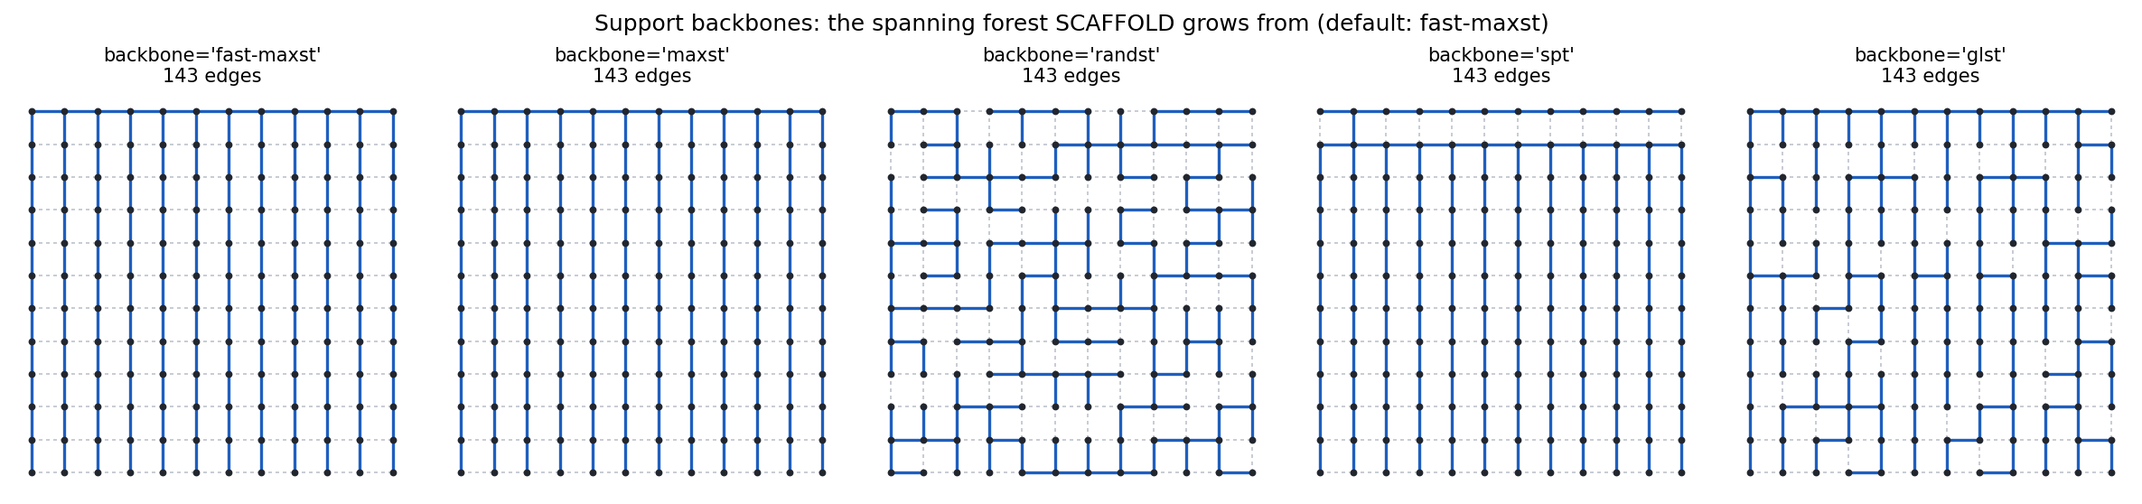
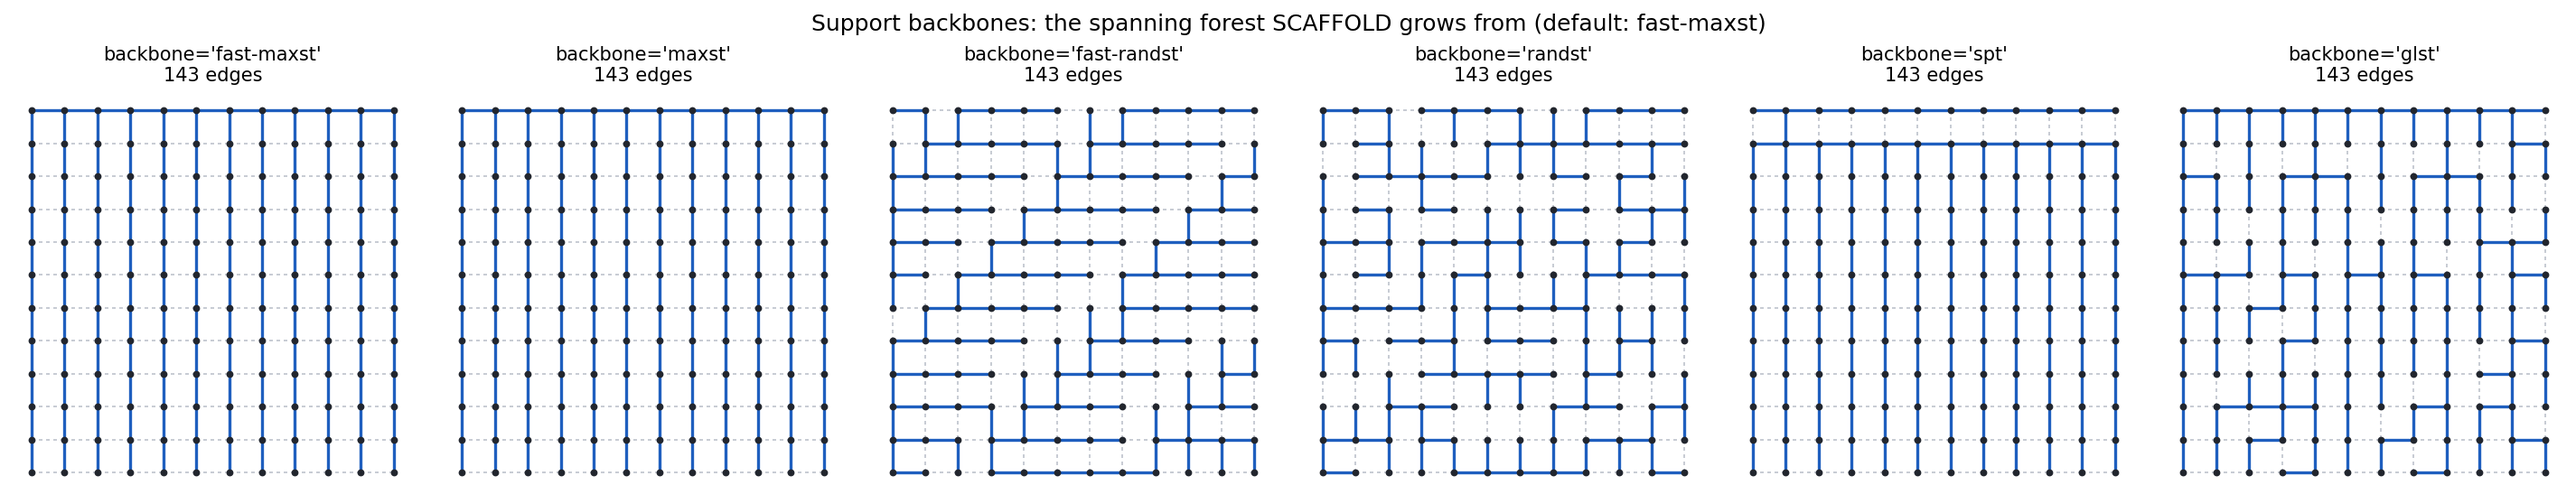
Add fast randomized support backbone

diff --git a/src/scaffold/backbone.py b/src/scaffold/backbone.py
@@ -16,13 +16,14 @@ Available backbones
                 comparison sort. On an unweighted graph it degenerates to the
                 fastest deterministic forest scan available.
 ``fast-mst``    Same, minimizing.
+``fast-randst`` Seeded coprime-stride randomized Kruskal. Visits every edge
+                exactly once without allocating a random permutation. Faster
+                and lower-memory than ``randst``, with less random mixing.
 ``maxst``       Exact maximum spanning forest (stable Kruskal, ``O(m log m)``).
 ``mst``         Exact minimum spanning forest.
-``randst``      Kruskal on a uniform random edge permutation. Structurally
-                similar to a uniform random spanning tree but orders of
-                magnitude cheaper than Wilson's algorithm. Re-drawn per call,
-                which is what makes per-epoch resparsification produce
-                genuinely different views.
+``randst``      Kruskal on a uniform random edge permutation. Better-randomized
+                edge order than ``fast-randst``, at the cost of materializing
+                that full permutation. Re-drawn per call.
 ``spt``         Multi-source shortest-path (BFS) forest from the highest-degree
                 node of each component. Low diameter, useful when you care more
                 about hop distance than about edge weight.
@@ -38,12 +39,18 @@ directly as a boolean mask / edge-id array.
 
 from __future__ import annotations
 
+import math
 from typing import Callable, Dict, Optional
 
 import numpy as np
 
 from .graph import Graph
-from .kernels import build_csr, counting_order, spanning_forest_mask
+from .kernels import (
+    build_csr,
+    counting_order,
+    spanning_forest_mask,
+    strided_spanning_forest_mask,
+)
 
 __all__ = [
     "DEFAULT_BACKBONE",
@@ -67,8 +74,8 @@ _ALIASES = {
     "max_st": "maxst",
     "min_st": "mst",
     "rand_st": "randst",
-    "fast_randst": "randst",
-    "fast-randst": "randst",
+    "fast_randst": "fast-randst",
+    "fastrandst": "fast-randst",
     "random": "randst",
     "bfs": "spt",
     "shortest_path": "spt",
@@ -233,6 +240,41 @@ def _random_forest(graph: Graph, max_edges, seed) -> np.ndarray:
     )
 
 
+def _fast_random_forest(graph: Graph, max_edges, seed) -> np.ndarray:
+    """Seeded strided random forest without allocating a full permutation."""
+    limit = _limit(graph, max_edges)
+    m = graph.num_edges
+    if m == 0 or limit == 0:
+        return np.zeros(m, dtype=bool)
+    if m == 1:
+        return spanning_forest_mask(
+            graph.num_nodes,
+            graph.src,
+            graph.dst,
+            np.zeros(1, dtype=np.int64),
+            max_edges=limit,
+        )
+
+    rng = np.random.default_rng(seed)
+    offset = int(rng.integers(0, m))
+    stride = int(rng.integers(1, m))
+    if stride % 2 == 0:
+        stride += 1
+    while math.gcd(stride, m) != 1:
+        stride += 2
+        if stride >= m:
+            stride = 1
+            break
+    return strided_spanning_forest_mask(
+        graph.num_nodes,
+        graph.src,
+        graph.dst,
+        offset,
+        stride,
+        max_edges=limit,
+    )
+
+
 def _shortest_path_forest(graph: Graph, max_edges, seed) -> np.ndarray:
     """BFS forest rooted at the highest-degree node of each component."""
     limit = _limit(graph, max_edges)
@@ -389,6 +431,12 @@ register_backbone(
 register_backbone(
     "randst",
     lambda graph, max_edges=None, seed=None, **_: _random_forest(graph, max_edges, seed),
+)
+register_backbone(
+    "fast-randst",
+    lambda graph, max_edges=None, seed=None, **_: (
+        _fast_random_forest(graph, max_edges, seed)
+    ),
 )
 register_backbone(
     "spt",

diff --git a/src/scaffold/kernels.py b/src/scaffold/kernels.py
@@ -86,6 +86,40 @@ def _forest_mask_kernel(num_nodes, src, dst, visit, max_edges):
 
 
 @jit
+def _strided_forest_mask_kernel(
+    num_nodes, src, dst, offset, stride, max_edges
+):
+    """Kruskal over a cyclic arithmetic permutation without materializing it."""
+    parent = np.arange(num_nodes)
+    rank = np.zeros(num_nodes, dtype=np.int8)
+    mask = np.zeros(src.shape[0], dtype=np.bool_)
+    added = 0
+    m = src.shape[0]
+    for step in range(m):
+        if added >= max_edges:
+            break
+        i = (offset + step * stride) % m
+        u = src[i]
+        v = dst[i]
+        if u == v:
+            continue
+        ru = _dsu_find(parent, u)
+        rv = _dsu_find(parent, v)
+        if ru == rv:
+            continue
+        if rank[ru] < rank[rv]:
+            parent[ru] = rv
+        elif rank[ru] > rank[rv]:
+            parent[rv] = ru
+        else:
+            parent[rv] = ru
+            rank[ru] += 1
+        mask[i] = True
+        added += 1
+    return mask
+
+
+@jit
 def _component_count_kernel(num_nodes, src, dst):
     parent = np.arange(num_nodes)
     components = num_nodes
@@ -376,6 +410,36 @@ def spanning_forest_mask(num_nodes, src, dst, visit_order, max_edges=None):
     if limit == 0:
         return np.zeros(src.shape[0], dtype=bool)
     return np.asarray(_forest_mask_kernel(num_nodes, src, dst, visit_order, limit))
+
+
+def strided_spanning_forest_mask(
+    num_nodes, src, dst, offset, stride, max_edges=None
+):
+    """Forest from a coprime strided edge scan, without an ``O(m)`` order array.
+
+    When ``gcd(stride, m) == 1``, ``(offset + step * stride) % m`` visits every
+    edge exactly once. This is the allocation-free traversal used by the
+    ``fast-randst`` backbone.
+    """
+    num_nodes = int(num_nodes)
+    src = np.ascontiguousarray(src, dtype=np.int64)
+    dst = np.ascontiguousarray(dst, dtype=np.int64)
+    m = int(src.shape[0])
+    if m == 0:
+        return np.zeros(0, dtype=bool)
+    offset = int(offset) % m
+    stride = int(stride) % m
+    if stride == 0 or math.gcd(stride, m) != 1:
+        raise ValueError(f"stride must be coprime with the edge count ({m})")
+    limit = num_nodes if max_edges is None else int(max_edges)
+    limit = max(0, min(limit, num_nodes))
+    if limit == 0:
+        return np.zeros(m, dtype=bool)
+    return np.asarray(
+        _strided_forest_mask_kernel(
+            num_nodes, src, dst, offset, stride, limit
+        )
+    )
 
 
 def component_count(num_nodes, src, dst):

diff --git a/tests/test_algorithms.py b/tests/test_algorithms.py
@@ -17,7 +17,11 @@ import pytest
 
 import scaffold
 from conftest import ALL_METHODS, GREEDY_METHODS, sparsify_any
-from scaffold.backbone import build_backbone
+from scaffold.backbone import (
+    DEFAULT_BACKBONE,
+    build_backbone,
+    canonical_backbone_name,
+)
 
 
 # ----------------------------------------------------------------------
@@ -248,10 +252,50 @@ def test_random_backbone_responds_to_the_seed(grid):
     assert not np.array_equal(first.mask, second.mask)
 
 
+def test_fast_randst_is_registered_with_research_alias(grid):
+    assert DEFAULT_BACKBONE == "fast-maxst"
+    assert "fast-randst" in scaffold.available_backbones()
+    assert canonical_backbone_name("fast_randst") == "fast-randst"
+    by_hyphen = build_backbone(grid, "fast-randst", seed=3)
+    by_underscore = build_backbone(grid, "fast_randst", seed=3)
+    np.testing.assert_array_equal(by_hyphen, by_underscore)
+
+
+def test_fast_randst_is_a_seeded_spanning_forest(grid):
+    first = build_backbone(grid, "fast-randst", seed=1)
+    repeated = build_backbone(grid, "fast-randst", seed=1)
+    second = build_backbone(grid, "fast-randst", seed=2)
+
+    assert int(first.sum()) == grid.num_nodes - 1
+    np.testing.assert_array_equal(first, repeated)
+    assert not np.array_equal(first, second)
+
+
+def test_fast_randst_is_distinct_from_randst(grid):
+    fast_random = build_backbone(grid, "fast-randst", seed=7)
+    full_random = build_backbone(grid, "randst", seed=7)
+    assert not np.array_equal(fast_random, full_random)
+
+
+def test_fast_randst_honors_partial_forest_budget(grid):
+    mask = build_backbone(grid, "fast-randst", seed=7, max_edges=20)
+    assert int(mask.sum()) == 20
+
+
+@pytest.mark.parametrize("method", GREEDY_METHODS)
+def test_fast_randst_integrates_with_greedy_methods(grid, method):
+    result = scaffold.sparsify(
+        grid, method=method, keep_ratio=0.7, backbone="fast-randst", seed=7
+    )
+    assert result.num_components() == 1
+    assert result.metadata["backbone"] == "fast-randst"
+
+
 def test_global_numpy_rng_is_not_touched(grid):
     np.random.seed(1234)
     before = np.random.get_state()[1][:8].copy()
     scaffold.fast(grid, keep_ratio=0.7, backbone="randst", seed=7)
+    scaffold.fast(grid, keep_ratio=0.7, backbone="fast-randst", seed=7)
     scaffold.sample(grid, seed=7).draw(keep_ratio=0.7)
     np.testing.assert_array_equal(before, np.random.get_state()[1][:8])
 

diff --git a/examples/04_backbones_and_tuning.py b/examples/04_backbones_and_tuning.py
@@ -36,7 +36,9 @@ section("1. The available backbones")
 print(f"  {scaffold.available_backbones()}\n")
 print(f"  {'backbone':12s} {'forest':>7s} {'stretch':>10s} {'edges':>7s} {'comp':>5s}")
 print(f"  {'-' * 12} {'-' * 7} {'-' * 10} {'-' * 7} {'-' * 5}")
-for name in ("fast-maxst", "maxst", "mst", "randst", "spt", "glst"):
+for name in (
+    "fast-maxst", "maxst", "mst", "fast-randst", "randst", "spt", "glst"
+):
     mask = build_backbone(G, name, seed=0)
     # total_stretch: sum over non-tree edges of dist_T(u,v)/w(e). Lower is a
     # better starting point -- fewer long detours for the growth phase to fix.
@@ -49,6 +51,8 @@ for name in ("fast-maxst", "maxst", "mst", "randst", "spt", "glst"):
 print("\n  On an *unweighted* grid, fast-maxst and maxst coincide: with no weights")
 print("  to sort by, both fall back to the same deterministic scan. Give the grid")
 print("  weights and they diverge.")
+print("  fast-randst avoids constructing randst's full random permutation; it is")
+print("  normally faster, while randst provides a more thoroughly shuffled order.")
 
 
 # ----------------------------------------------------------------------

diff --git a/examples/01_grid_demo.py b/examples/01_grid_demo.py
@@ -38,7 +38,7 @@ def figure_backbones(graph, positions, out_dir):
     """Every SCAFFOLD run starts from a spanning forest. They differ a lot."""
     import matplotlib.pyplot as plt
 
-    names = ["fast-maxst", "maxst", "randst", "spt", "glst"]
+    names = ["fast-maxst", "maxst", "fast-randst", "randst", "spt", "glst"]
     fig, axes = plt.subplots(1, len(names), figsize=(3.2 * len(names), 3.6))
     for ax, name in zip(np.atleast_1d(axes), names):
         mask = build_backbone(graph, name, seed=SEED)

diff --git a/tests/test_scoring.py b/tests/test_scoring.py
@@ -16,7 +16,7 @@ import scaffold
 from scaffold.backbone import build_backbone
 from scaffold.scoring import ScoreParams, path_scores, tree_scores
 
-BACKBONES = ["fast-maxst", "maxst", "mst", "randst", "spt"]
+BACKBONES = ["fast-maxst", "maxst", "mst", "fast-randst", "randst", "spt"]
 PARAM_SETS = [
     ScoreParams(),
     ScoreParams(alpha=1.0, beta_edge=0.0, beta_node=0.0),

diff --git a/docs/backbones.md b/docs/backbones.md
@@ -45,18 +45,36 @@ Exact stable Kruskal, `O(m log m)`. Ties break on edge id, so runs are
 reproducible. Use these when the weight ordering genuinely matters and you can
 afford the sort.
 
-### `randst`
+### `fast-randst` and `randst`
 
-Kruskal on a uniform random edge permutation. Structurally similar to a uniform
-random spanning tree, orders of magnitude cheaper than Wilson's algorithm.
+Both are randomized Kruskal forests and are redrawn on every call:
 
-**Re-drawn on every call**, which is what makes per-epoch resparsification
-produce genuinely different views rather than the same graph with different
-decorations.
+- `fast-randst` draws only a seeded offset and coprime stride. The resulting
+  arithmetic traversal visits every edge once without allocating an `m`-entry
+  permutation. It is the faster, lower-memory choice and matches the research
+  tensor backend's fast randomized support.
+- `randst` constructs a full uniform random edge permutation before the same
+  union-find scan. Its edge order is more thoroughly randomized, but creating
+  and storing the permutation costs additional time and `O(m)` memory.
+
+Neither is an exact uniform spanning-tree sampler. The distinction is the
+randomness and cost of the *edge order*, not the union-find acceptance rule.
+
+Warmed median construction times with numba on the development machine were:
+
+| undirected edges | `fast-randst` | `randst` | speedup |
+|---:|---:|---:|---:|
+| 130,560 | 2.4 ms | 4.5 ms | 1.9× |
+| 523,264 | 9.9 ms | 22.6 ms | 2.3× |
+| 2,095,104 | 134.3 ms | 177.6 ms | 1.3× |
+
+The exact ratio is graph-, seed-, cache-, and machine-dependent. The stable
+distinction is that `fast-randst` generates two random integers and no order
+array, whereas `randst` generates and stores all `m` permutation entries.
 
 ```python
-a = scaffold.fast(G, keep_ratio=0.2, backbone="randst", seed=1)
-b = scaffold.fast(G, keep_ratio=0.2, backbone="randst", seed=2)
+a = scaffold.fast(G, keep_ratio=0.2, backbone="fast-randst", seed=1)
+b = scaffold.fast(G, keep_ratio=0.2, backbone="fast-randst", seed=2)
 # a.mask != b.mask
 ```
 
@@ -100,7 +118,9 @@ an ablation; almost never what you want in production.
 |---|---|
 | Large graph, want it fast | `fast-maxst` (default) |
 | Weight ordering matters exactly | `maxst` / `mst` |
-| Per-epoch resparsification | `randst`, or `scaffold.sample(backbone="rotate-randst")` |
+| Fast randomized support | `fast-randst` |
+| More thoroughly shuffled support | `randst` |
+| Per-epoch resparsification | `fast-randst`, or `scaffold.sample(backbone="rotate-randst")` |
 | Hop distance matters more than weight | `spt` |
 | Small graph, want the best skeleton | `glst` |
 | Ablation with no structural guarantee | `none` |
@@ -113,13 +133,15 @@ over non-tree edges of `dist_F(u,v)/w(e)`, so lower is a better starting point:
 | `fast-maxst` | 195 | 2535 |
 | `maxst` | 195 | 2535 |
 | `mst` | 195 | 2535 |
+| `fast-randst` | 195 | 1719 |
 | `randst` | 195 | 1649 |
 | `spt` | 195 | 2355 |
 | `glst` | 195 | 1961 |
 
 (On this unweighted grid the three weighted variants coincide, as noted above.
-`randst` wins on stretch here because a random maze has no long thin comb
-structure — a nice reminder that "deterministic" does not mean "better".)
+Both randomized variants improve stretch here because a random maze has no
+long thin comb structure; `randst` happens to win for seed 0. This is a quality
+sample, not a claim that one randomized distribution always dominates.)
 
 Reproduce with [`examples/04_backbones_and_tuning.py`](../examples/04_backbones_and_tuning.py).
 

diff --git a/docs/api.md b/docs/api.md
@@ -46,6 +46,10 @@ budget for later `draw()` calls.
 them, and do not combine either one with `num_edges`; contradictory budgets
 raise `ValueError`.
 
+Built-ins are `fast-maxst` (default), `fast-mst`, `fast-randst`, `maxst`,
+`mst`, `randst`, `spt`, `glst`, and `none`. `fast_randst` is accepted as the
+research-configuration spelling of `fast-randst`.
+
 ### Objective knobs (all variants)
 
 | argument | default | meaning |
